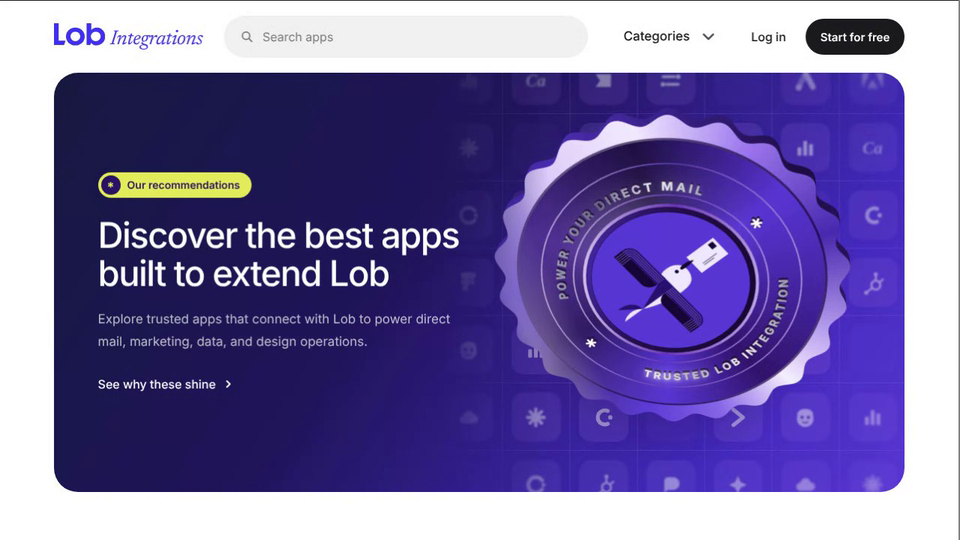
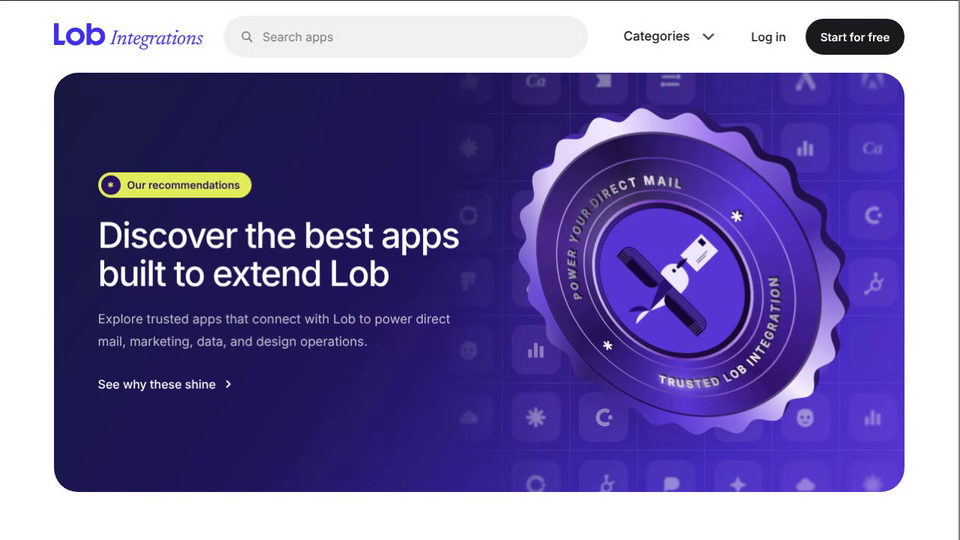
Lob Integrations Hero: resting badge tilt is candidate 1
Claude-Session: https://claude.ai/code/session_01AHeBdw5Dmhovddhvfinq8X

Changed region(s): [[0.5, 0.1778, 0.9062, 0.8]]

diff --git a/lob-integrations-hero/index.html b/lob-integrations-hero/index.html
@@ -342,7 +342,7 @@ function frame(now){
   /* the badge rests at a fixed angle on the 135 degree diagonal; hovering over the visual tips it, and it eases back on leave */
   var wx=hover?tx:0, wy=hover?ty:0;
   px+=(wx-px)*.07; py+=(wy-py)*.07;
-  badge.style.transform='rotateZ(-45deg) rotateX('+(-20-py*16).toFixed(2)+'deg) rotateY('+(-25+px*24).toFixed(2)+'deg)';
+  badge.style.transform='rotateZ(-45deg) rotateX('+(-py*16).toFixed(2)+'deg) rotateY('+(-35+px*24).toFixed(2)+'deg)';
   badge.style.setProperty('--a',(30+px*60+py*25).toFixed(1)+'deg');
   badge.style.setProperty('--gxn',(px*22).toFixed(1)); badge.style.setProperty('--gyn',(-10+py*18).toFixed(1));
   var ang=(px*60+py*25).toFixed(1);
